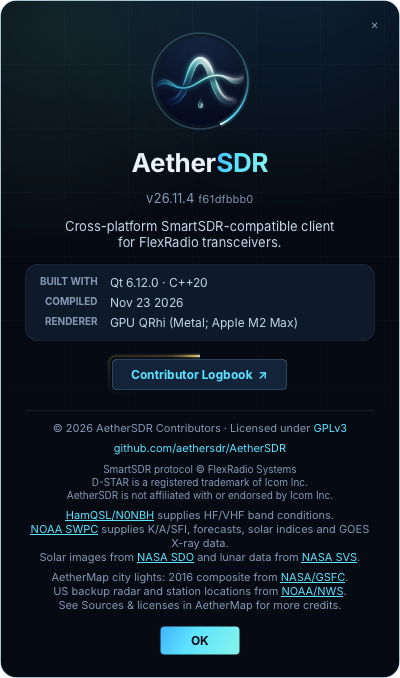
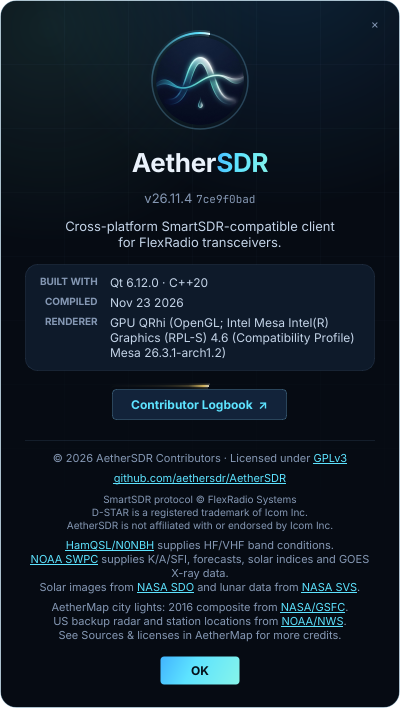
Color the credit links from the theme; underline every About link. Principle VIII.
- AetherMap's Sources & licenses labels color their links from
  color.canon.cyan, the token the About footer's links use, and re-color
  them on a theme change. Rich text took the link color from the
  application palette, a dark blue on Linux that could not be read on
  the dark panel.
- The About footer's GPLv3 and GitHub links are underlined like the six
  provider links, so no link is marked by color alone.
- Both screenshots are re-shot on the demo.

Claude-Session: https://claude.ai/code/session_01Jyszw7ySiF9v8PH7DcL6qk

diff --git a/src/gui/PskReporterMapDialog.cpp b/src/gui/PskReporterMapDialog.cpp
@@ -1025,6 +1025,26 @@ PskReporterMapDialog::PskReporterMapDialog(AudioEngine* audioEngine,
     mapCredits->setWordWrap(true);
     radarInfoLayout->addWidget(mapCredits);
     radarInfoLayout->addWidget(m_radarProductLabel);
+    // Rich text takes a link's colour from the application palette when the
+    // text is parsed, which on Linux is a dark blue that can't be read on the
+    // dark panel. Colour each link from the theme token the About footer's
+    // links use, and re-colour on every theme change.
+    const QList<QLabel*> creditLabels{radarCredits, globalCredits, regionalCredits, mapCredits};
+    const auto applyLinkColor = [creditLabels] {
+        for (QLabel* label : creditLabels) {
+            QString html = label->property("creditHtml").toString();
+            if (html.isEmpty()) {
+                html = label->text();
+                label->setProperty("creditHtml", html);
+            }
+            const QString color = ThemeManager::instance()
+                .color(label, QStringLiteral("color.canon.cyan")).name();
+            label->setText(html.replace(QStringLiteral("<a href="),
+                QStringLiteral("<a style=\"color:%1;\" href=").arg(color)));
+        }
+    };
+    applyLinkColor();
+    connect(&ThemeManager::instance(), &ThemeManager::themeChanged, radarInfo, applyLinkColor);
     radarInfo->hide();
     connect(radarInfoButton, &QToolButton::toggled, radarInfo,
         [radarInfoButton, radarInfo](bool expanded) {

diff --git a/src/gui/MainWindow_Menus.cpp b/src/gui/MainWindow_Menus.cpp
@@ -2017,8 +2017,8 @@ void MainWindow::buildMenuBar()
             footer->setText(QStringLiteral(
                 "<div style='text-align:center;'>"
                 "<p style='margin:0 0 6px 0;'>&copy; 2026 AetherSDR Contributors &middot; Licensed under "
-                "<a href='https://www.gnu.org/licenses/gpl-3.0.html' style='color:%1; text-decoration:none;'>GPLv3</a></p>"
-                "<p style='margin:0 0 8px 0;'><a href='https://github.com/aethersdr/AetherSDR' style='color:%1; text-decoration:none;'>"
+                "<a href='https://www.gnu.org/licenses/gpl-3.0.html' style='color:%1;'>GPLv3</a></p>"
+                "<p style='margin:0 0 8px 0;'><a href='https://github.com/aethersdr/AetherSDR' style='color:%1;'>"
                 "github.com/aethersdr/AetherSDR</a></p>"
                 "<p style='font-size:10px; margin:0;'>SmartSDR protocol &copy; FlexRadio Systems<br>"
                 "D-STAR is a registered trademark of Icom Inc.<br>"
